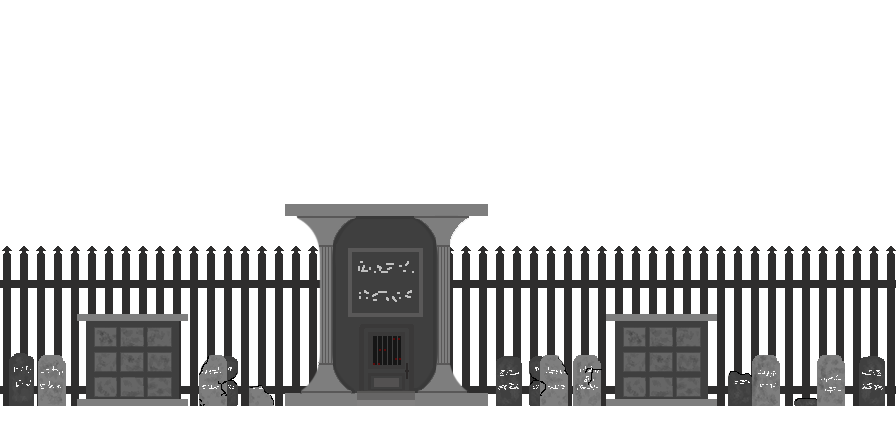
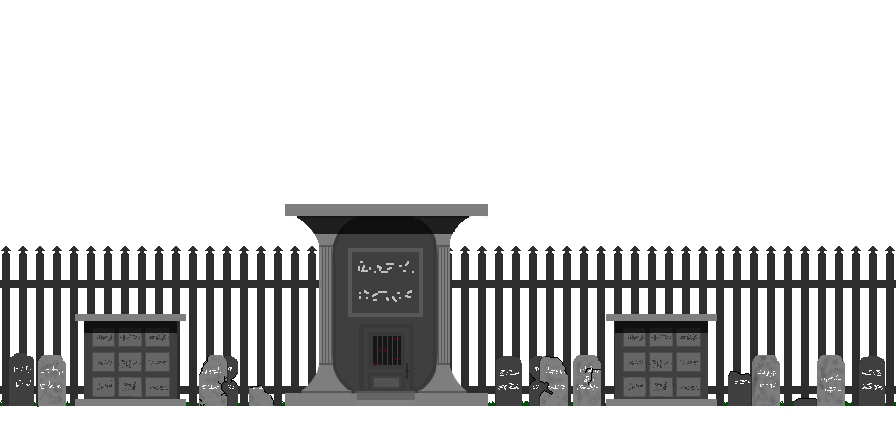
commit

diff --git a/src/scenes/TableauCimetiere.js b/src/scenes/TableauCimetiere.js
@@ -4,6 +4,7 @@ class TableauCimetiere extends Tableau{
     {
 
         super.preload();
+        //// IMAGES ////
         //collectibles
         this.load.image('star', 'assets/star.png');
         //plateformes
@@ -17,17 +18,23 @@ class TableauCimetiere extends Tableau{
         //decors
         this.load.image('nuitEtoile', 'assets/sky_nuit2.png');
         this.load.image('sol', 'assets/sol_4000.png');
-        this.load.image('solFond', 'assets/Sol_fond.png');
-        this.load.image('tombes', 'assets/tombes.png');
-        this.load.image('barriere', 'assets/grilleCiel2.png');
-        //this.load.image('barriere', 'assets/barriere.png'); / image corrompue, barriere sans fond impossible !!!
-        //animation de mort
+        this.load.image('solFond2', 'assets/Sol_fond2.png');
+        this.load.image('tombes', 'assets/tombes2.png');
+        this.load.image('grilleHerbe', 'assets/grilleHerbe.png');
+        this.load.image('colines', 'assets/colines.png');
+        this.load.image('ombresTombes', 'assets/ombresTombes.png');
+        this.load.image('chateauLoin', 'assets/chateauLoin.png');
+        this.load.image('chateauCiel', 'assets/CielChateau.png');
+        this.load.image('tombesGrille', 'assets/tombes_grille.png');
+        //animations de mort
         this.load.image('blood', 'assets/bloodblack.png');
         this.load.image('osExplosion', 'assets/persoMort.png');
-        //son
+        //// SONS ////
         this.load.audio('AmbianceHalloween1', 'assets/Sound/Ambiance_halloween_1.mp3');
-        //gifs
-        this.load.gif('corbeau', 'assets/animations/animationCorbeau2.gif');
+        //// GIFS ////
+        //this.load.gif('corbeau', 'assets/animations/animationCorbeau2.gif');
+        //this.load.spritesheet('crawler', 'assets/crawler.png', { frameWidth: 32, frameHeight: 16 } );
+
     } // FIN DE PRELOAD
 
     create() 
@@ -45,6 +52,7 @@ class TableauCimetiere extends Tableau{
         let hauteurDuTableau=448;
         let largeur=896;
         let hauteurSol=64;
+        let randomVariable1 = Phaser.Math.Between(100, 400);
         this.cameras.main.setBounds(0, 0, largeurDuTableau, hauteurDuTableau);
         this.physics.world.setBounds(0, 0, largeurDuTableau,  hauteurDuTableau);
         
@@ -103,11 +111,10 @@ class TableauCimetiere extends Tableau{
             pla.setDisplaySize(203,11);
             pla.refreshBody();
         }
-        // FIN DE QUELQUES PLATEFORMES
-        
-        //this.physics.add.collider(this.player,this.platforms);
+        // on active leurs colisions avec les éléments que l'on souhaite
         this.physics.add.collider(this.player,this.platforms);
         this.physics.add.collider(this.stars, this.platforms);
+        // FIN DE QUELQUES PLATEFORMES        
 
         //création du sol
         let rouge=this.physics.add.sprite(0,height-hauteurSol);//,"sol");
@@ -125,14 +132,13 @@ class TableauCimetiere extends Tableau{
             0,
             this.sys.canvas.width,
             this.sys.canvas.height,
-            'barriere'
+            'nuitEtoile'
         );
         this.sky.setOrigin(0,0);
-        this.sky.setScrollFactor(0);//fait en sorte que le ciel ne suive pas la caméra
-        //this.sky.alpha=0.3;
+        this.sky.setScrollFactor(0); //fait en sorte que le ciel ne suive pas la caméra
+        //this.sky.alpha=0.5; // opacité
+        //this.sky2.tileScaleX=this.sky.tileScaleY=0.8;
 
-        
-        //on ajoute une deuxième couche/plan
         this.sky2=this.add.tileSprite
         (
             0,
@@ -141,16 +147,44 @@ class TableauCimetiere extends Tableau{
             this.sys.canvas.height,
             'nuitEtoile'
         );
-        this.sky2.setScrollFactor(0);
         this.sky2.setOrigin(0,0);
-        this.sky2.alpha=0.2; // opacité
-        //this.sky2.tileScaleX=this.sky.tileScaleY=0.8;
-        
-        //on ajoute une troixième couche/plan
-        
-        
-        //on ajoute une deuxième couche de ciel
+        this.sky2.setScrollFactor(0);
+        this.sky2.alpha=0.1; 
+
         this.sky3=this.add.tileSprite
+        (
+            0,
+            0,
+            this.sys.canvas.width,
+            this.sys.canvas.height,
+            'chateauLoin'
+        );
+        this.sky3.setScrollFactor(0);
+        this.sky3.setOrigin(0,0);
+        
+        this.sky4=this.add.tileSprite
+        (
+            0,
+            0,
+            this.sys.canvas.width,
+            this.sys.canvas.height,
+            'colines'
+        );
+        this.sky4.setScrollFactor(0);
+        this.sky4.setOrigin(0,0);
+        
+        this.sky5=this.add.tileSprite
+        (
+            0,
+            0,
+            this.sys.canvas.width,
+            this.sys.canvas.height,
+            'grilleHerbe'
+        );
+        this.sky5.setScrollFactor(0);
+        this.sky5.setOrigin(0,0);
+        
+        this.sky6=this.add.tileSprite
         (
             0,
             0,
@@ -158,24 +192,35 @@ class TableauCimetiere extends Tableau{
             this.sys.canvas.height,
             'tombes'
         );
-        this.sky3.setScrollFactor(0);
-        this.sky3.setOrigin(0,0);
-        //this.sky3.alpha=0.8;
-
-        //sol
-        this.sky4=this.add.tileSprite
+        this.sky6.setScrollFactor(0);
+        this.sky6.setOrigin(0,0);
+       
+        this.sky7=this.add.tileSprite
         (
             0,
             0,
             this.sys.canvas.width,
             this.sys.canvas.height,
-            'solFond'
+            'solFond2'
         );
-        this.sky4.setScrollFactor(0);
-        this.sky4.setOrigin(0,0);
+        this.sky7.setScrollFactor(0);
+        this.sky7.setOrigin(0,0);
+        
+        this.sky8=this.add.tileSprite
+        (
+            0,
+            0,
+            this.sys.canvas.width,
+            this.sys.canvas.height,
+            'ombresTombes'
+        );
+        this.sky8.setScrollFactor(0);
+        this.sky8.setOrigin(0,0);  
+
+        //this.corbeauxGif = new CorbeauxGif(this,400,550,'monster_zombie');
 
         //quelques monstres 
-        new MonsterLoupgarou(this,2000,448-hauteurSol);
+        //new MonsterLoupgarou(this,2000,448-hauteurSol);
 
         let limitSpawnMonster=300;
         let largeurSizeSlime=50;
@@ -188,24 +233,30 @@ class TableauCimetiere extends Tableau{
         {
             new MonsterZombie(this,posX,408-hauteurSol,"monster-zombie");
         }
-        for(let posX=661+115+largeurSizeSlime;posX<largeurDuTableau-limitSpawnMonster;posX+=largeur)
-        {
-            new MonsterSlime(this,posX,height-hauteurSol-18,"monster-slime");
-        }
-        for(let posX=448;posX<largeurDuTableau-limitSpawnMonster;posX+=largeur)
-        {
-            this.MonsterAraignee = new MonsterAraignee(this,posX,height-140-hauteurSol,"monster-araignee");
-            this.MonsterAraignee.setDepth(11)
-        }
         // FIN DE QUELQUES MONSTRES
+
+        /*
+        //// QUELQUES GIFS ////
+        //this.gifs=this.physics.add.group();
+        //let randomVariable1 = Phaser.Math.Between(100, 400);
+        //corbeaux
+        for(let posX=400+randomVariable1;posX<largeurDuTableau;posX+=400+randomVariable1)
+        {
+            this.CorbeauxGif = new CorbeauxGif(this,posX,295,"monster_zombie");
+            this.CorbeauxGif.setDepth(12)
+        }
+
+        //// FIN DE QUELQUES GIFS ////
+        */
 
         //fait passer les éléments devant le ciel
         this.platforms.setDepth(10)
         this.stars.setDepth(10)
         this.player.setDepth(10)
-        rouge.setDepth(10);
+        rouge.setDepth(10)
         this.blood.setDepth(10)
         this.blood2.setDepth(10)
+        this.sky8.setDepth(12)
         
             
         //this.physics.add.overlap(this.player, this.monstre, this.hitSpike, this.saigne, this.hitMonster, this , null, this);
@@ -215,19 +266,44 @@ class TableauCimetiere extends Tableau{
     update()
     {
         super.update();
-        //les tombes
-        this.sky3.tilePositionX=this.cameras.main.scrollX*0.3;//*0.6;
-        this.sky3.tilePositionY=this.cameras.main.scrollY+22;//*0.2;
-        ///le ciel
-        this.sky2.tilePositionX=this.cameras.main.scrollX*0.6;//*0.3+500;
-        this.sky2.tilePositionY=this.cameras.main.scrollY+24;//*0.1;
+
+        //le ciel et les étoiles
+        this.sky.tilePositionX=this.cameras.main.scrollX*0.02;//*0.3//0.15;
+        this.sky.tilePositionY=this.cameras.main.scrollY+22;//+24//*0.05;
+
+        //le ciel et les étoiles2
+        this.sky2.tilePositionX=this.cameras.main.scrollX*0;//*0.3//0.15;
+        this.sky2.tilePositionY=this.cameras.main.scrollY+22;//+24//*0.05;
         
-        //la grille
-        this.sky.tilePositionX=this.cameras.main.scrollX*0.3;//0.15;
-        this.sky.tilePositionY=this.cameras.main.scrollY+24;//*0.05;
+        
+        ///le chateau sur la coline
+        this.sky3.tilePositionX=this.cameras.main.scrollX*0.1;//*0.6//*0.3+500;
+        this.sky3.tilePositionY=this.cameras.main.scrollY+22;//+24//*0.1;
+        
+        
+        //les colines
+        this.sky4.tilePositionX=this.cameras.main.scrollX*0.6;//*0.3//*0.6;
+        this.sky4.tilePositionY=this.cameras.main.scrollY+22;//+22//*0.2;
+        
+        
+        //la grille avec herbes
+        this.sky5.tilePositionX=this.cameras.main.scrollX*0.8;//*0.6//0.15;
+        this.sky5.tilePositionY=this.cameras.main.scrollY+22;//+0//*0.05;
+        
+        
+        //les tombes
+        this.sky6.tilePositionX=this.cameras.main.scrollX;//*0.6//0.15;
+        this.sky6.tilePositionY=this.cameras.main.scrollY+22;//+0//*0.05;
+        
+        
         //le sol
-        this.sky4.tilePositionX=this.cameras.main.scrollX*0.6;//0.15;
-        this.sky4.tilePositionY=this.cameras.main.scrollY;//*0.05;
+        this.sky7.tilePositionX=this.cameras.main.scrollX*1.3;//*0.6//0.15;
+        this.sky7.tilePositionY=this.cameras.main.scrollY;//+0//*0.05;
+        
+        
+        //les ombres devant
+        this.sky8.tilePositionX=this.cameras.main.scrollX*1.6;//*0.6//0.15;
+        this.sky8.tilePositionY=this.cameras.main.scrollY;//+0//*0.05;
         
 
     } // FIN DE UPDATE

diff --git a/src/objects/CorbeauxGif.js b/src/objects/CorbeauxGif.js
@@ -1,0 +1,56 @@
+class CorbeauxGif extends Phaser.Physics.Arcade.Sprite{
+
+    constructor(scene, x, y,) {
+        super(scene, x, y, 'monster-zombie');
+
+	scene.add.existing(this);
+    scene.physics.add.existing(this);
+	scene.physics.add.collider(scene.player, this);
+
+    //this.setOffset(0, 0);
+    //this.setDisplaySize(556,612);
+    //this.setCollideWorldBounds(false);
+    this.body.allowGravity=false;
+	this.setBounceX(0);
+    //this.setGravityY(0);
+    this.setVelocity(0,0);
+    this.setBodySize(this.body.width,this.body.height);
+    this.scale = 3;
+    this.isAlive = true;
+
+    this.anims.create({
+        key: 'moving',
+        frames: this.anims.generateFrameNumbers('monster-zombie', { start: 0, end: 5 }),
+      frameRate: 10,
+      repeat: -1
+    });
+
+    }
+
+  upd(scene){
+    this.anims.play('moving', true);
+    if (this.body.velocity.x > 0){this.flipX = true;}
+    else{this.flipX = false;}
+
+    if (this.body.touching.up && this.isAlive){
+        scene.player.setVelocityY(-400);
+        this.disableBody(true, true);
+        his.isAlive = false;
+    }
+  }
+
+}
+/*
+//quelques gifs
+//corbeaux
+this.gifs=this.physics.add.staticGroup();
+//let randomVariable1 = Math.random();
+//let randomVariable1 = Phaser.Math.Between(100, 400);
+for(let posX = 400 ;posX<largeurDuTableau;posX+=400){
+    let corbeauxY=295;
+    let corbeaux=this.gifs.create(posX ,corbeauxY,"corbeau");
+    //corbeaux.setDisplaySize(556,hauteurDuTableau);
+    //corbeaux.refreshBody();
+    }
+// FIN DE QUELQUES GIFS
+*/

diff --git a/src/scenes/structure/Tableau.js b/src/scenes/structure/Tableau.js
@@ -22,6 +22,7 @@ class Tableau extends Phaser.Scene{
         this.load.audio('os', 'assets/Sound/os_sound.mp3');
         this.load.audio('splash', 'assets/Sound/splash.mp3');
         this.load.audio('crack', 'assets/Sound/crack.mp3');
+        // this.load.spritesheet('corbeau', 'assets/annimations.png', { frameWidth: 32, frameHeight: 32 } );
         this.load.spritesheet('player',
             'assets/player.png',
             { frameWidth: 32, frameHeight: 48  }  //default(32,48)
@@ -52,7 +53,7 @@ class Tableau extends Phaser.Scene{
         this.blood2=this.add.sprite(this.sys.canvas.width/2,this.sys.canvas.height/2,"osExplosion")
         this.blood2.displayWidth=64;
         this.blood2.displayHeight=64;
-        this.blood2.visible=false;
+        this.blood2.visible=false
 
     }
     update()

diff --git a/index.html b/index.html
@@ -26,6 +26,7 @@
     <script src="src/objects/MonsterLoupgarou.js"></script>
     <script src="src/objects/MonsterSlime.js"></script>
     <script src="src/objects/MonsterAraignee.js"></script>
+    <script src="src/objects/CorbeauxGif.js"></script>
     <script src="src/scenes/structure/Tableau.js"></script>
     <script src="src/scenes/structure/Ui.js"></script>
 
